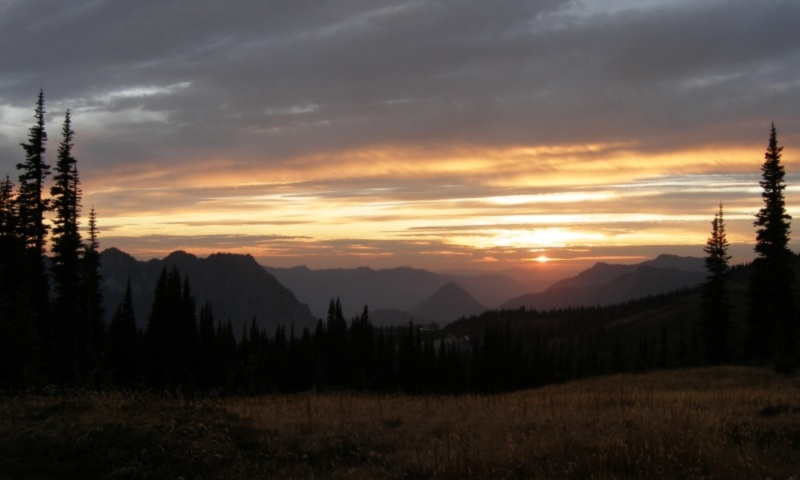
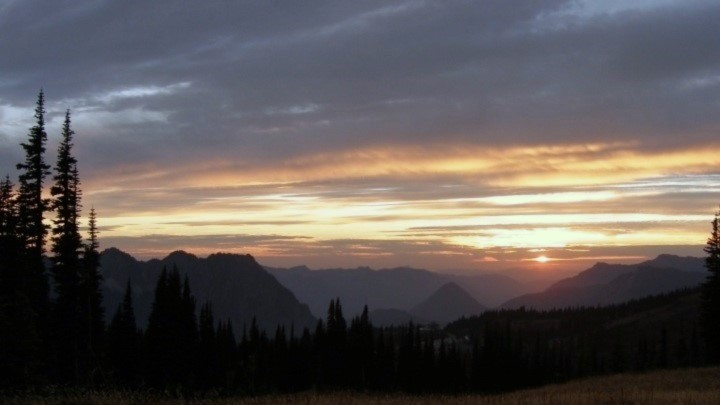
fixed scaling issues (more or less), also found fix (more or less) to colour correction problem (decrease colour temp and increase brightness on source sprites) Next collision maybe

diff --git a/Game Project/Game.cpp b/Game Project/Game.cpp
@@ -73,28 +73,28 @@ void Game::Update(DX::StepTimer const& timer)
     if (kb.W)
     {
         if (sprite->get_loc().y > 0) {
-            sprite->set_loc(sprite->get_loc().x, sprite->get_loc().y - 2.0f);
+            sprite->set_loc(sprite->get_loc().x, sprite->get_loc().y - 0.75f);
         }
     }
 
     if (kb.S)
     {
         if (sprite->get_loc().y < dimensions.y) {
-            sprite->set_loc(sprite->get_loc().x, sprite->get_loc().y + 2.0f);
+            sprite->set_loc(sprite->get_loc().x, sprite->get_loc().y + 1.0f);
         }  
     }
     
     if (kb.A)
     {
         if (sprite->get_loc().x > 0) {
-            sprite->set_loc(sprite->get_loc().x - 2.0f, sprite->get_loc().y);
+            sprite->set_loc(sprite->get_loc().x - 1.0f, sprite->get_loc().y);
         }
     }
 
     if (kb.D)
     {
         if (sprite->get_loc().x < dimensions.x) {
-            sprite->set_loc(sprite->get_loc().x + 2.0f, sprite->get_loc().y);
+            sprite->set_loc(sprite->get_loc().x + 1.0f, sprite->get_loc().y);
         }
     }
 
@@ -126,7 +126,7 @@ void Game::Render()
     // TODO: Add your rendering code here.
     context;
 
-    m_spriteBatch->Begin();
+    m_spriteBatch->Begin(SpriteSortMode_FrontToBack, m_states->NonPremultiplied());
 
     m_spriteBatch->Draw(m_background.Get(), m_fullscreenRect, &subrect);
 
@@ -138,7 +138,7 @@ void Game::Render()
         Colors::White, 0.f, sprite->get_origin(), sprite->get_scale() * ratio);
 
     m_spriteBatch->Draw(sprite_2->get_frame(m_timer.GetTotalSeconds()).Get(), sprite_2->get_loc(), nullptr,
-        Colors::White, 0.f, sprite_2->get_origin(), sprite_2->get_scale() * ratio);
+        Colors::White, 0.f, sprite_2->get_origin() / ratio, sprite_2->get_scale() * ratio);
 
     m_spriteBatch->Draw(sprite_3->get_frame(m_timer.GetTotalSeconds()).Get(), TranslateCoordinates(sprite_3->get_loc(), false), nullptr,
         Colors::White, 0.f, sprite_3->get_origin(), sprite_3->get_scale() * ratio);
@@ -182,29 +182,9 @@ DirectX::SimpleMath::Vector2 Game::TranslateCoordinates(DirectX::SimpleMath::Vec
         }
     }
     else {
-        /*if (loc.x < centre.x - subRectDim.x) {
-            screen_loc.x = loc.x - (centre.x - subRectDim.x);
-        }
-        else if (loc.x > centre.x + subRectDim.x) {
-            screen_loc.x = loc.x - (centre.x - subRectDim.x);
-        }
-        else {
-            screen_loc.x = loc.x - (centre.x - subRectDim.x);
-        }*/
-        screen_loc.x = (dimensions.x / (subRectDim.x * 2)) * (loc.x - (centre.x - subRectDim.x));
+        screen_loc.x = (ratio) * (dimensions.x / (subRectDim.x * 2)) * (loc.x - (centre.x - subRectDim.x));
 
-        //screen_loc.x = 115;
-
-        /*if (loc.y < centre.y - subRectDim.y) {
-            screen_loc.y = loc.y - (centre.y - subRectDim.y);
-        }
-        else if (loc.y > centre.y + subRectDim.y) {
-            screen_loc.y = loc.y - (centre.y - subRectDim.y);
-        }
-        else {
-            screen_loc.y = loc.y - (centre.y - subRectDim.y);
-        }*/
-        screen_loc.y = (dimensions.y / (subRectDim.y * 2)) * (loc.y - (centre.y - subRectDim.y));
+        screen_loc.y = (ratio) * (dimensions.y / (subRectDim.y * 2)) * (loc.y - (centre.y - subRectDim.y));
     }
     return screen_loc;
 }
@@ -280,8 +260,8 @@ void Game::OnWindowSizeChanged(int width, int height)
 void Game::GetDefaultSize(int& width, int& height) const noexcept
 {
     // TODO: Change to desired default window size (note minimum size is 320x200).
-    width = 800;
-    height = 480;
+    width = 720;
+    height = 405;
 }
 #pragma endregion
 
@@ -316,8 +296,8 @@ void Game::CreateDeviceDependentResources()
     DX::ThrowIfFailed(
         CreateWICTextureFromFile(device, L"sunset.jpg", nullptr,
             m_background.ReleaseAndGetAddressOf()));
-    dimensions.x = 800;
-    dimensions.y = 480;
+    dimensions.x = 720;
+    dimensions.y = 405;
 
     subrect.left = 100;
     subrect.right = 300;
@@ -358,16 +338,16 @@ void Game::CreateDeviceDependentResources()
         m_deviceResources,
         0.33,
         m_timer.GetTotalSeconds(),
-        800,
-        480,
-        95,
-        97);
+        400,
+        240,
+        100,
+        100);
 }
 
 // Allocate all memory resources that change on a window SizeChanged event.
 void Game::CreateWindowSizeDependentResources()
 {
-    // TODO: Initialize windows-size dependent objects here.
+    // TODO: Initialize windows-size dependent objects here.aw
     float old = m_fullscreenRect.right;
     auto viewSize = m_deviceResources->GetOutputSize();
     m_screenPos.x = float(viewSize.right) / 2.f;
@@ -375,7 +355,10 @@ void Game::CreateWindowSizeDependentResources()
 
     m_fullscreenRect = m_deviceResources->GetOutputSize();
 
-    ratio = m_fullscreenRect.right / 800;
+    float x_ratio = m_fullscreenRect.right / 720.0f;
+    float y_ratio = m_fullscreenRect.bottom / 405.0f;
+
+    ratio = m_fullscreenRect.right / 720.0f;
 }
 
 void Game::OnDeviceLost()

diff --git a/Game Project/DeviceResources.h b/Game Project/DeviceResources.h
@@ -101,7 +101,7 @@ namespace DX
         Microsoft::WRL::ComPtr<ID3D11DepthStencilView>  m_d3dDepthStencilView;
         D3D11_VIEWPORT                                  m_screenViewport;
 
-        // Direct3D properties.
+        // Direct3D properties.w
         DXGI_FORMAT                                     m_backBufferFormat;
         DXGI_FORMAT                                     m_depthBufferFormat;
         UINT                                            m_backBufferCount;

diff --git a/Game Project/Main.cpp b/Game Project/Main.cpp
@@ -272,8 +272,8 @@ LRESULT CALLBACK WndProc(HWND hWnd, UINT message, WPARAM wParam, LPARAM lParam)
                 SetWindowLongPtr(hWnd, GWL_STYLE, WS_OVERLAPPEDWINDOW);
                 SetWindowLongPtr(hWnd, GWL_EXSTYLE, 0);
 
-                int width = 800;
-                int height = 600;
+                int width = 720;
+                int height = 405;
                 if (game)
                     game->GetDefaultSize(width, height);
 

diff --git a/Game Project/Entity.cpp b/Game Project/Entity.cpp
@@ -58,7 +58,6 @@ Entity::Entity(std::vector<std::vector<std::string>> files,
 
 DirectX::SimpleMath::Vector2 Entity::get_loc()
 {
-	//DirectX::SimpleMath::Vector2 screenLoc(loc.x * m_deviceResources->GetOutputSize().right / 350, loc.y * m_deviceResources->GetOutputSize().bottom / 350);
 	DirectX::SimpleMath::Vector2 screenLoc(loc.x, loc.y);
 	return screenLoc;
 }
